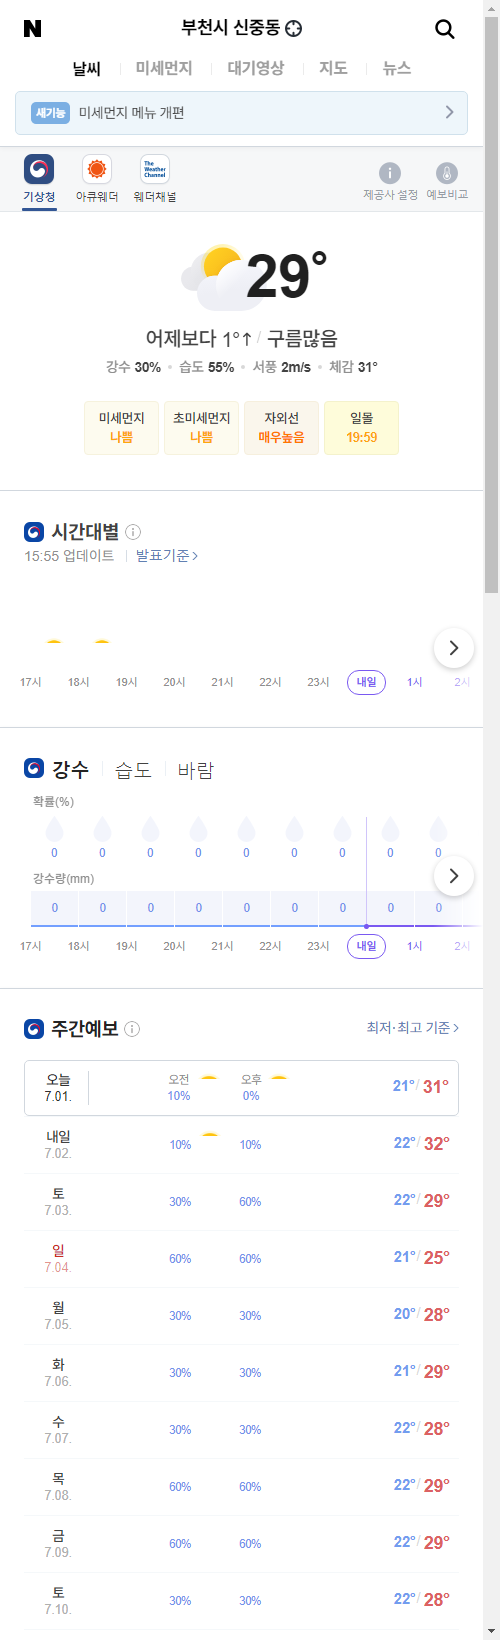
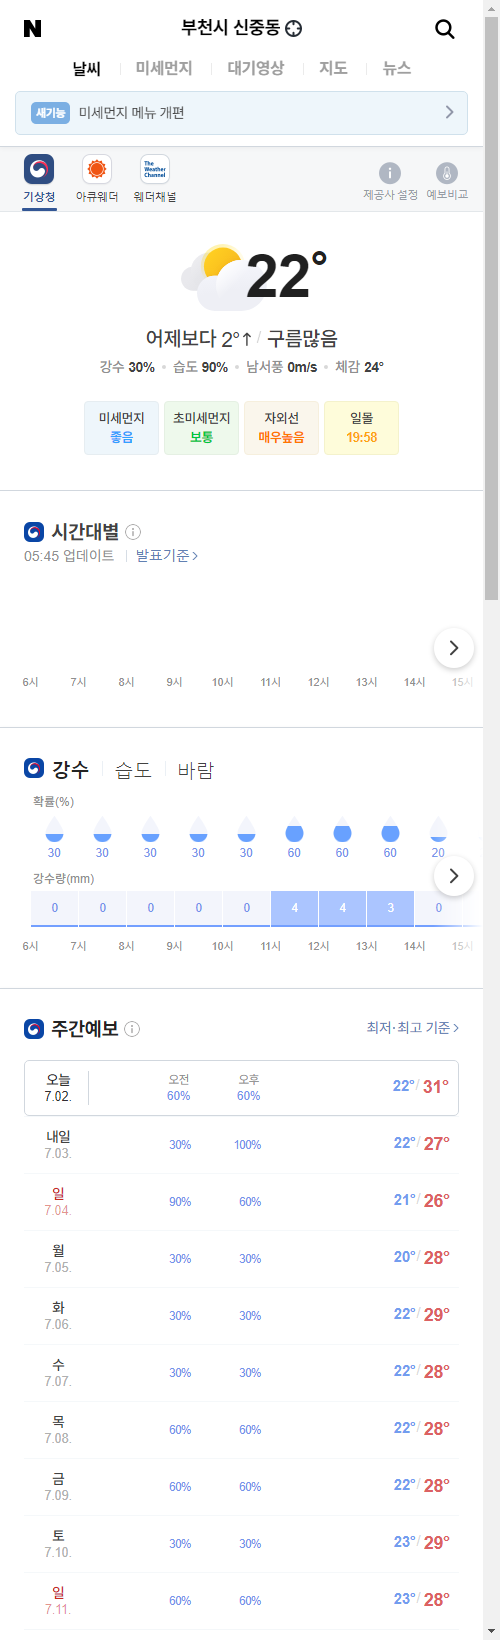
update result

diff --git a/README.md b/README.md
@@ -1,5 +1,5 @@
-##  2021-07-01 16:02:34   목요일 
-##### 날씨   -   어제보다 1° 높아요구름많음  
+##  2021-07-02 05:54:34   금요일 
+##### 날씨   -   어제보다 2° 높아요구름많음  
 <center><img src="../img/naver_weather_week.png"></center>
 ----
 ----
@@ -13,11 +13,11 @@
 ##### 세계
 <table border="1" bordercolor="blue" align = "center" >
 <tr align = "right" > <td>Item</td><td>Point</td><td>Diff</td><td>Rate</td><td>Buy</td><td>Sell</td><td>...</td>  </tr>
-<tr align = "right" > <td>DOW</td><td>34,502.51</td><td>210.22</td><td><font size="3" color="red" >0.61%</font></td><td><font size="3" color="black">0</font></td><td><font size="3" color="black">0</font></td><td>0</td>  </tr>
-<tr align = "right" > <td>NASDAQ</td><td>14,503.95</td><td>-24.39</td><td><font size="3" color="blue" >-0.17%</font></td><td><font size="3" color="black">0</font></td><td><font size="3" color="black">0</font></td><td>0</td>  </tr>
-<tr align = "right" > <td>S&P</td><td>4,297.5</td><td>5.7</td><td><font size="3" color="red" >0.13%</font></td><td><font size="3" color="black">0</font></td><td><font size="3" color="black">0</font></td><td>0</td>  </tr>
-<tr align = "right" > <td>SHANHAI</td><td>3,582.58</td><td>-8.61</td><td><font size="3" color="blue" >-0.24%</font></td><td><font size="3" color="black">0</font></td><td><font size="3" color="black">0</font></td><td>0</td>  </tr>
-<tr align = "right" > <td>INDIA</td><td>52,399.12</td><td>-83.59</td><td><font size="3" color="blue" >-0.16%</font></td><td><font size="3" color="black">0</font></td><td><font size="3" color="black">0</font></td><td>0</td>  </tr>
+<tr align = "right" > <td>DOW</td><td>34,633.53</td><td>131.02</td><td><font size="3" color="red" >0.38%</font></td><td><font size="3" color="black">0</font></td><td><font size="3" color="black">0</font></td><td>0</td>  </tr>
+<tr align = "right" > <td>NASDAQ</td><td>14,522.38</td><td>18.43</td><td><font size="3" color="red" >0.13%</font></td><td><font size="3" color="black">0</font></td><td><font size="3" color="black">0</font></td><td>0</td>  </tr>
+<tr align = "right" > <td>S&P</td><td>4,319.94</td><td>22.44</td><td><font size="3" color="red" >0.52%</font></td><td><font size="3" color="black">0</font></td><td><font size="3" color="black">0</font></td><td>0</td>  </tr>
+<tr align = "right" > <td>SHANHAI</td><td>3,588.78</td><td>-2.41</td><td><font size="3" color="blue" >-0.07%</font></td><td><font size="3" color="black">0</font></td><td><font size="3" color="black">0</font></td><td>0</td>  </tr>
+<tr align = "right" > <td>INDIA</td><td>52,318.6</td><td>-164.11</td><td><font size="3" color="blue" >-0.31%</font></td><td><font size="3" color="black">0</font></td><td><font size="3" color="black">0</font></td><td>0</td>  </tr>
 </table>
 ----
 ##### 시장
